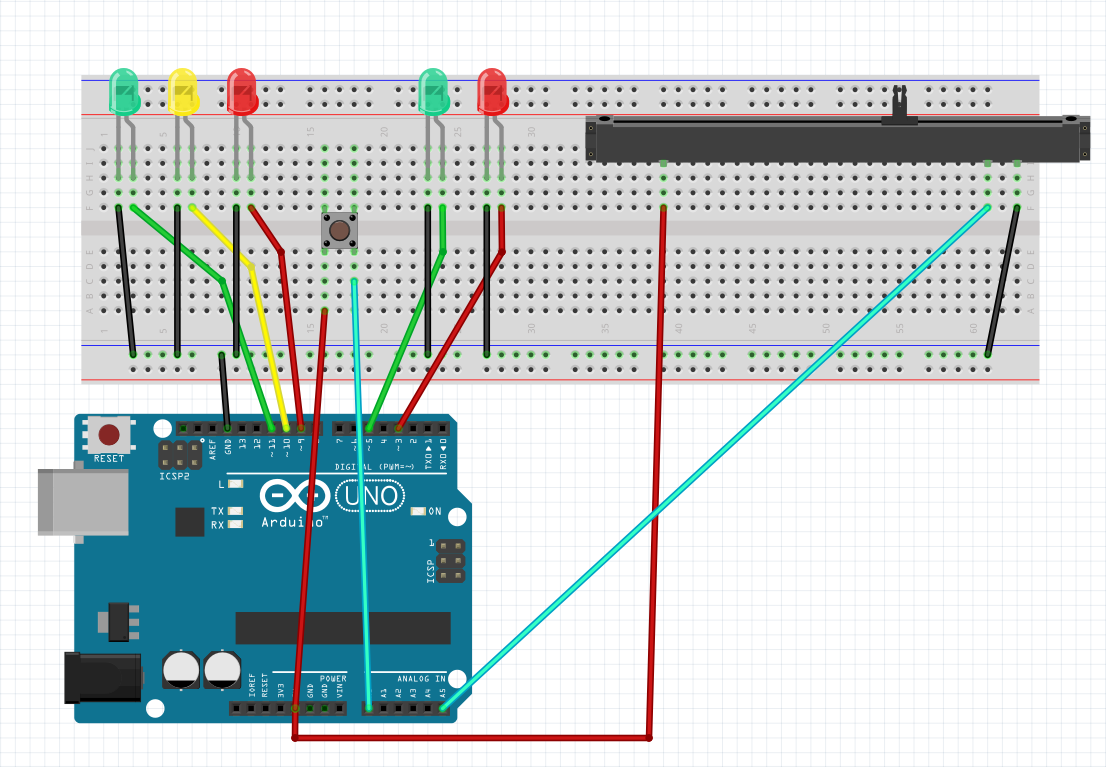
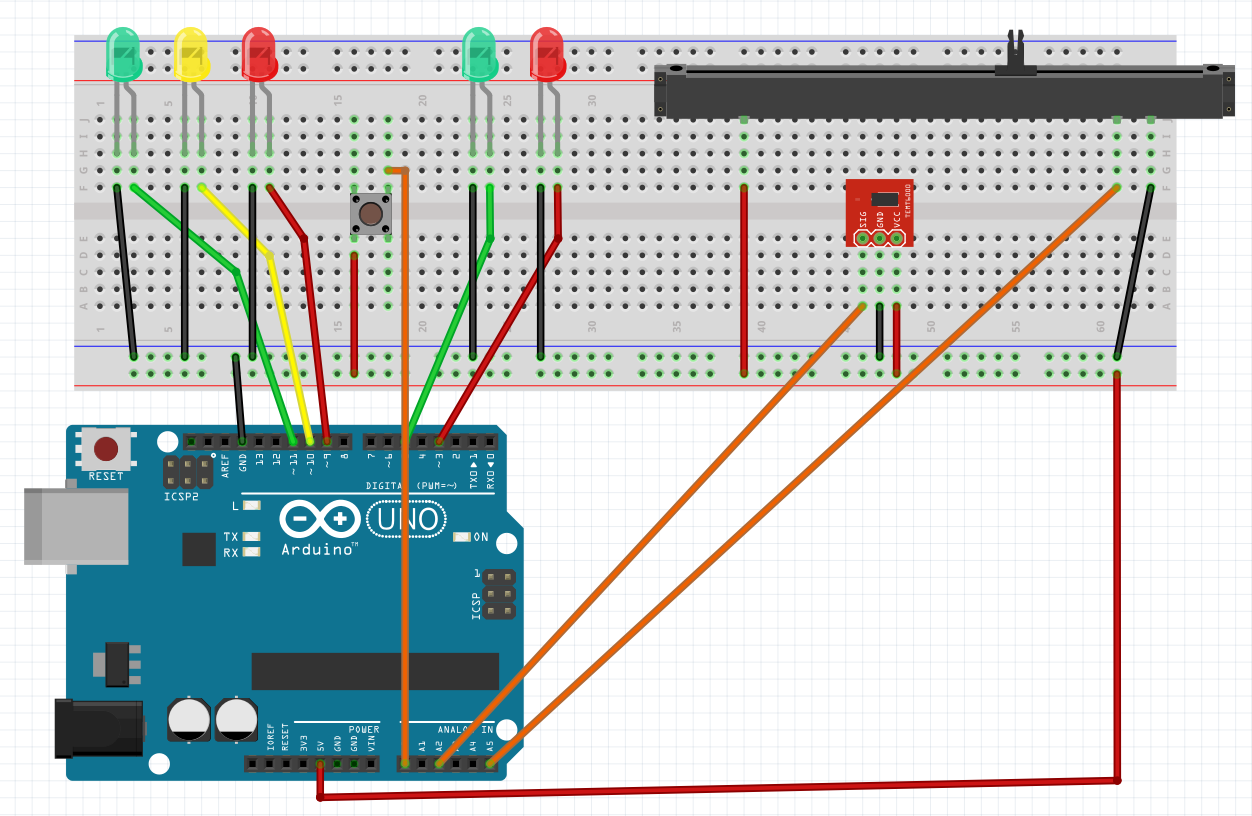
docs: update traffic lights info

diff --git a/arduino-traffic-lights/README.md b/arduino-traffic-lights/README.md
@@ -1,6 +1,6 @@
 # Arduino traffic lights
 
-🚦 Traffic lights controlled with an Arduino
+🚦 Traffic lights controlled with an Arduino board
 
 - [🌈 How it works](#-how-it-works)
 - [🔌 Hardware setup](#-hardware-setup)
@@ -10,14 +10,15 @@
 
 ## 🌈 How it works
 
-This projects aims to recreate traffic lights with an Arduino. I'm not going to explain you how a traffic light works, I think you know well...
+This project aims to recreate traffic lights with an Arduino. I'm not going to explain you how a traffic light works, I think you know well...
 
-It's a really simple hardware setup : in a minimal configuration, there's five LEDs, one button and one potentiometer :
+It's a really simple hardware setup : in a minimal configuration, there's five LEDs, a button, a potentiometer and a light sensor :
 
 - Three LEDs for cars : green, yellow and red
 - Two LEDs for pedestrians : green and red
 - A button for pedestrians who want to cross the road
 - A potentiometer to control the delay between red and green states
+- A light sensor to adapt the intensity of the lights
 
 ## 🔨 Hardware setup
 
@@ -25,13 +26,13 @@ Setup the components on your breadboard and connect them to your Arduino board. 
 
 ![Schema](docs/schema.png)
 
-The pins on this schema are the same that in the code.
+The pins on this schema are the same that inside the code.
 
 ## ⌨ Software setup
 
-All the code fits inside the `main.ino` sketch. In the "Definitions" part, edit the pins used for each component if you changed them in the hardware setup. Note that the project is made using Tinkerkit, so that's why there are these weird pin names. Feel free to remove them at home !
+All the code fits inside the `main.ino` sketch. In the `Definitions` part, edit the pins used for each component if you changed them during hardware setup. Note that the project is made using Tinkerkit, so that's why there are these weird pin names. Feel free to remove them at home !
 
-After this step is done, upload the sketch on your Arduino and start playing around your creation !
+After this step is done, upload the sketch on your board and start playing around the creation !
 
 ## 📝 Credits
 
